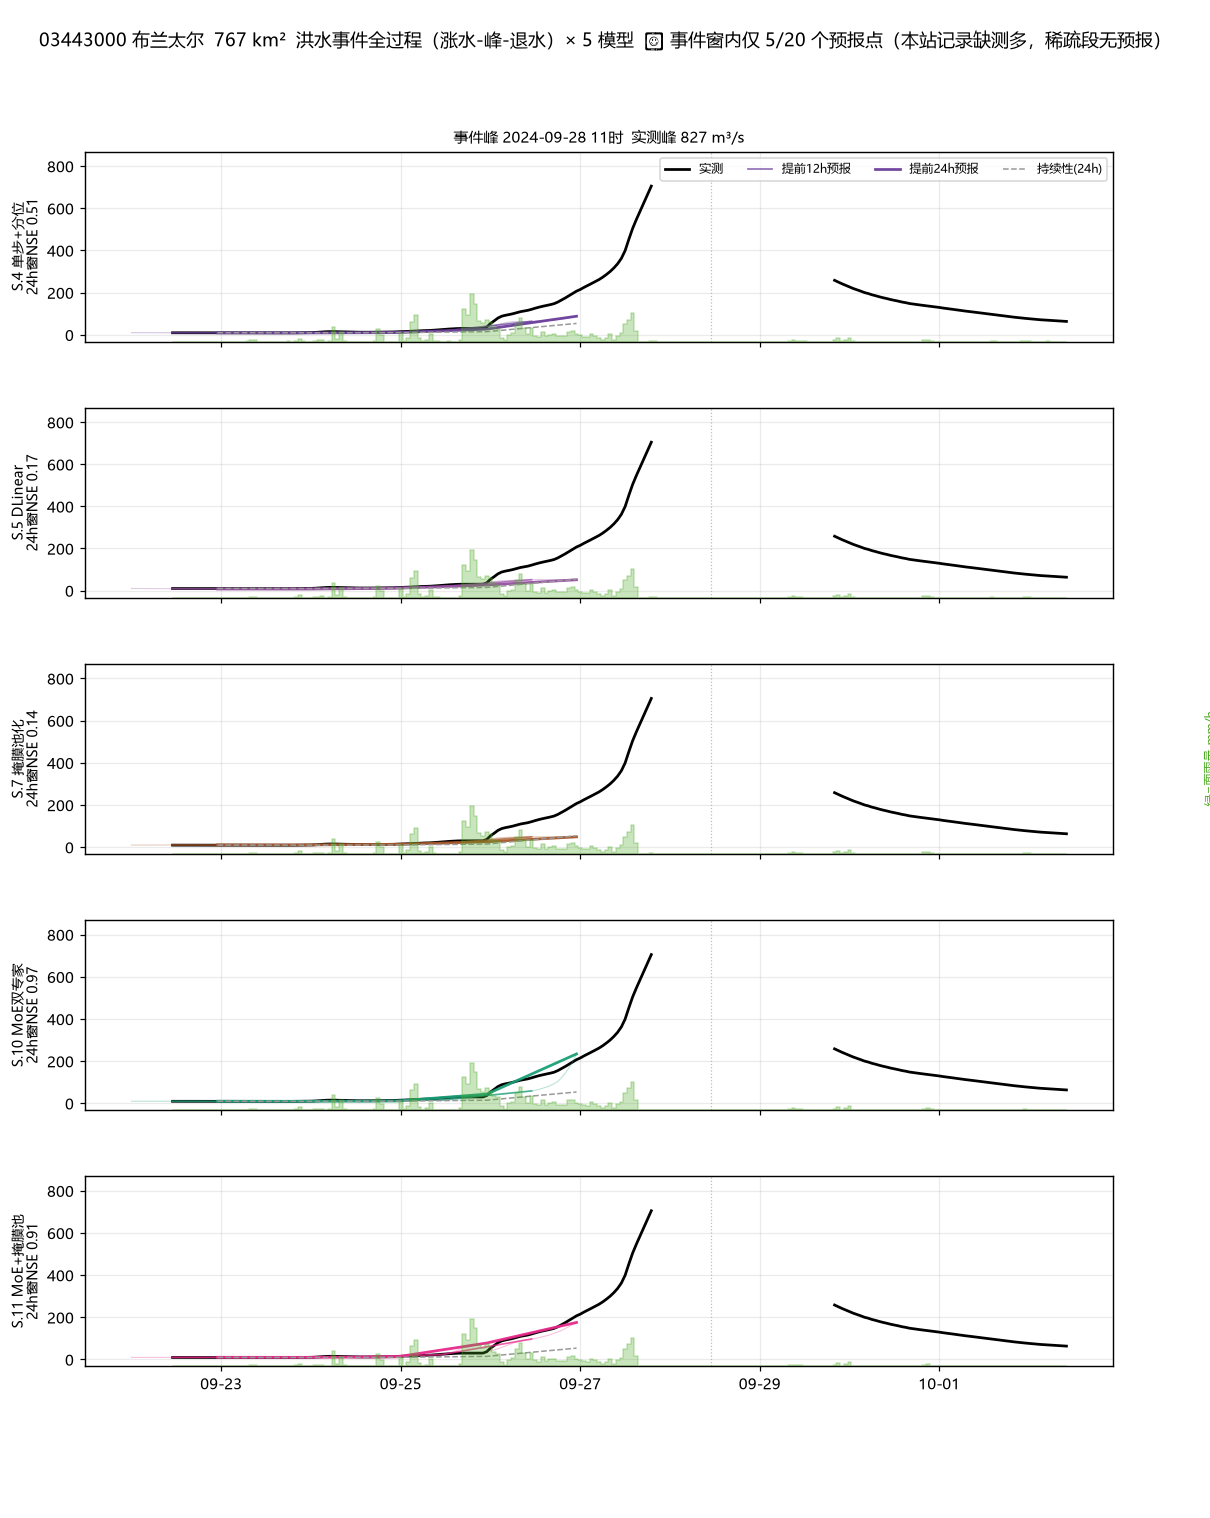
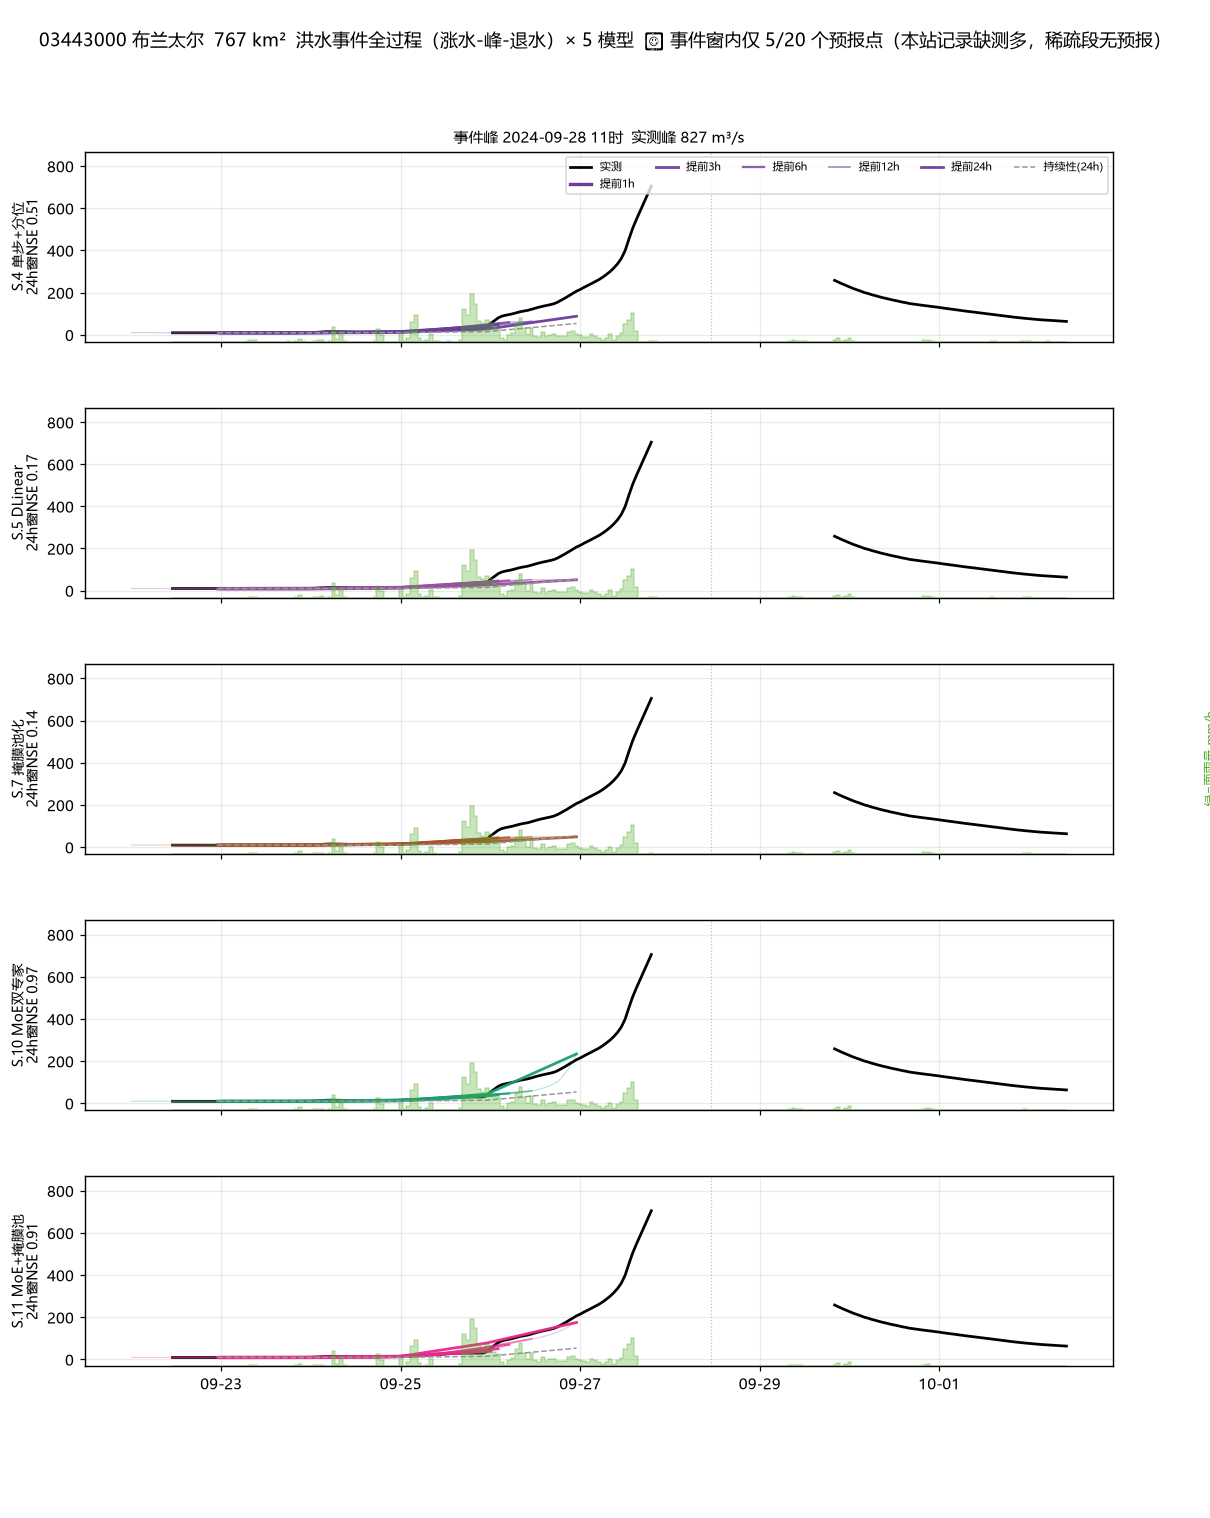
事件图v3：提前1/3/6/12/24h五级连续预报曲线同图，线宽阶梯区分

Changed region(s): [[0.4587, 0.0929, 0.9174, 0.1238], [0.3669, 0.8669, 0.3975, 0.8979]]

diff --git a/scripts/plot_event.py b/scripts/plot_event.py
@@ -37,7 +37,9 @@ MODELS = [  # 与 plot_compare.py 同步
     ("S.11 MoE+掩膜池", "runs/site_model_moe_mp", "#e7298a"),
 ]
 LOOKBACK = 72
-LEADS = [12, 24]  # 画连续提前量曲线的步数（小时）
+LEADS = [1, 3, 6, 12, 24]  # 画连续提前量曲线的步数（小时）
+LEAD_LW = {1: 2.2, 3: 1.9, 6: 1.5, 12: 1.1, 24: 1.8}
+LEAD_AL = {1: 1.0, 3: 0.90, 6: 0.80, 12: 0.60, 24: 0.95}
 
 
 def load_run(run_dir):
@@ -148,9 +150,8 @@ def main():
                 if not m.any():
                     continue
                 tj, sj = times[tgt[m]], sim[m]
-                lw, alpha = (1.8, 0.95) if lead == max(LEADS) else (1.1, 0.75)
-                ax.plot(tj, sj, color=col, lw=lw, alpha=alpha,
-                        label=f"提前{lead}h预报")
+                ax.plot(tj, sj, color=col, lw=LEAD_LW[lead], alpha=LEAD_AL[lead],
+                        label=f"提前{lead}h")
                 if lead == max(LEADS):
                     nse24 = win_nse(q_raw[tgt[m]], sj)
                     n_lt = int(np.isfinite(q_raw[tgt[m]]).sum())
@@ -168,7 +169,7 @@ def main():
             axr.set_ylim(0, max(8, np.nanmax(area_rain[i, lo:hi]) * 4))
             axr.set_yticks([])
             if r == 0:
-                ax.legend(loc="upper right", fontsize=8, ncol=4)
+                ax.legend(loc="upper right", fontsize=7, ncol=6)
                 ax.set_title(f"事件峰 {times[pk]:%Y-%m-%d %H时}  "
                              f"实测峰 {q_raw[pk]:.0f} m³/s", fontsize=10)
 
